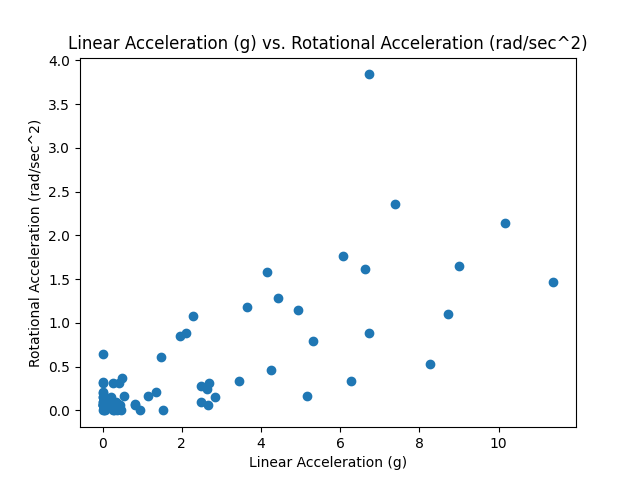
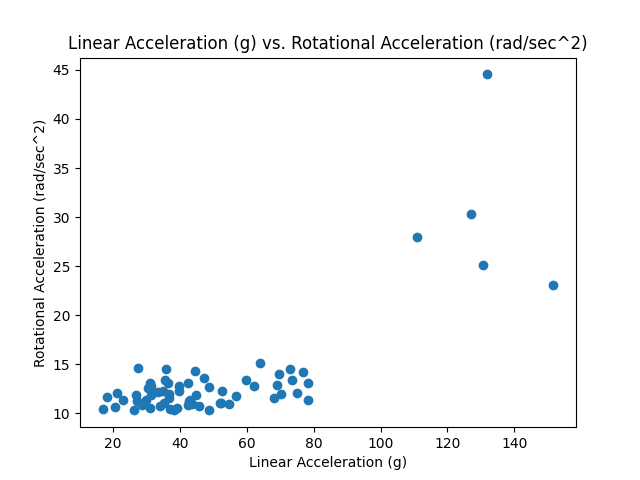
Possibly fixed the scatterplots, checking in with prof.

diff --git a/470exercise2/scavenger_hunt.py b/470exercise2/scavenger_hunt.py
@@ -78,8 +78,8 @@ def plot_waveforms(LA, RV, RA, TL, TR):
         plt.close()
 
 
-def plot_scatterplot(LA, RV, RA):
-    plt.scatter(LA[:, 0], RV[:, 0])
+def plot_scatterplot(PLA, PRV, PRA):
+    plt.scatter(PLA, PRV)
     plt.xlabel('Linear Acceleration (g)')
     plt.ylabel('Rotational Velocity (rad/sec)')
     plt.title('Linear Acceleration (g) vs. Rotational Velocity (rad/sec)')
@@ -87,7 +87,7 @@ def plot_scatterplot(LA, RV, RA):
     plt.close()
     print('\ngraphs/Linear Acceleration vs. Rotational Velocity.png printed \n')
 
-    plt.scatter(LA[:, 0], RA[:, 0])
+    plt.scatter(PLA, PRA)
     plt.xlabel('Linear Acceleration (g)')
     plt.ylabel('Rotational Acceleration (rad/sec^2)')
     plt.title('Linear Acceleration (g) vs. Rotational Acceleration (rad/sec^2)')
@@ -95,7 +95,7 @@ def plot_scatterplot(LA, RV, RA):
     plt.close()
     print('graphs/Linear Acceleration vs. Rotational Acceleration.png printed\n')
 
-    plt.scatter(RV[:, 0], RA[:, 0])
+    plt.scatter(PRV, PRA)
     plt.xlabel('Rotational Velocity (rad/sec)')
     plt.ylabel('Rotational Acceleration (rad/sec^2)')
     plt.title('Rotational Velocity (rad/sec) vs. Rotational Acceleration (rad/sec^2)')
@@ -103,6 +103,13 @@ def plot_scatterplot(LA, RV, RA):
     plt.close()
     print('graphs/Rotational Velocity vs. Rotational Acceleration.png printed')
 
+def plot_rot_accel(RA):
+    for i in range(0,65):
+        instances.append(i)
+    plt.xlabel('Instance')
+    plt.ylabel('Rotational Acceleration (rad/sec^2)')
+    plt.title('Average Rotational Acceleration')
+    plt.savefig('graphs/Average Rotational Acceleration.png')
 
 # make empty data and time Lists
 LA_list = []
@@ -110,6 +117,7 @@ RV_list = []
 RA_list = []
 TL_list = []
 TR_list = []
+instances = []
 
 read_waveforms(LA_list, RV_list, RA_list)
 read_times(TL_list, TR_list)
@@ -121,7 +129,8 @@ RA = np.array(RA_list)
 TL = np.array(TL_list[0])
 TR = np.array(TR_list[0])
 # plot_waveforms(LA, RV, RA, TL, TR)
-plot_scatterplot(LA, RV, RA)
+
+plot_rot_accel(RA)
 
 minLA = []
 avgLA = []
@@ -159,6 +168,8 @@ PRV = np.array(maxRV)
 MRA = np.array(minRA)
 ARA = np.array(avgRA)
 PRA = np.array(maxRA)
+
+plot_scatterplot(PLA, PRV, PRA)
 
 print('MLA: min: ' + str(np.min(MLA)) + ', max: ' + str(np.max(MLA)) + ', avg: ' + str(np.mean(MLA)))
 print('ALA: min: ' + str(np.min(ALA)) + ', max: ' + str(np.max(ALA)) + ', avg: ' + str(np.mean(ALA)))
